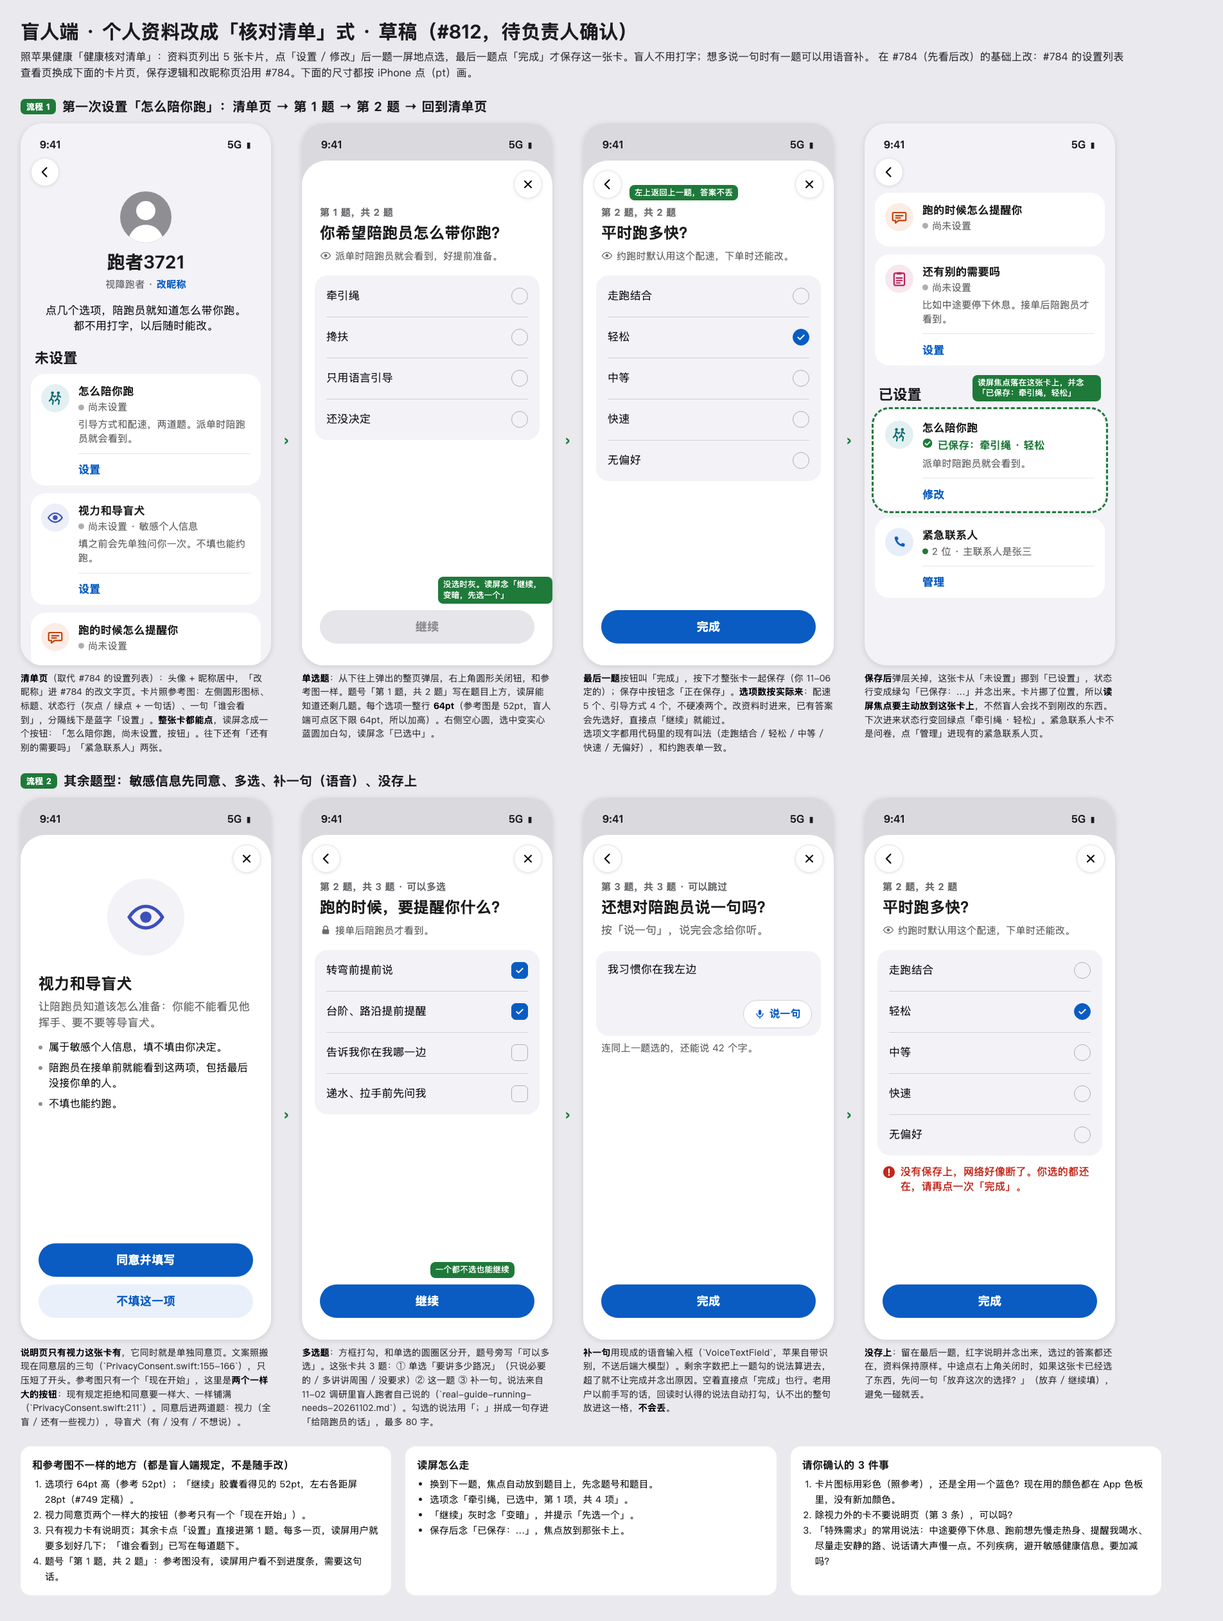
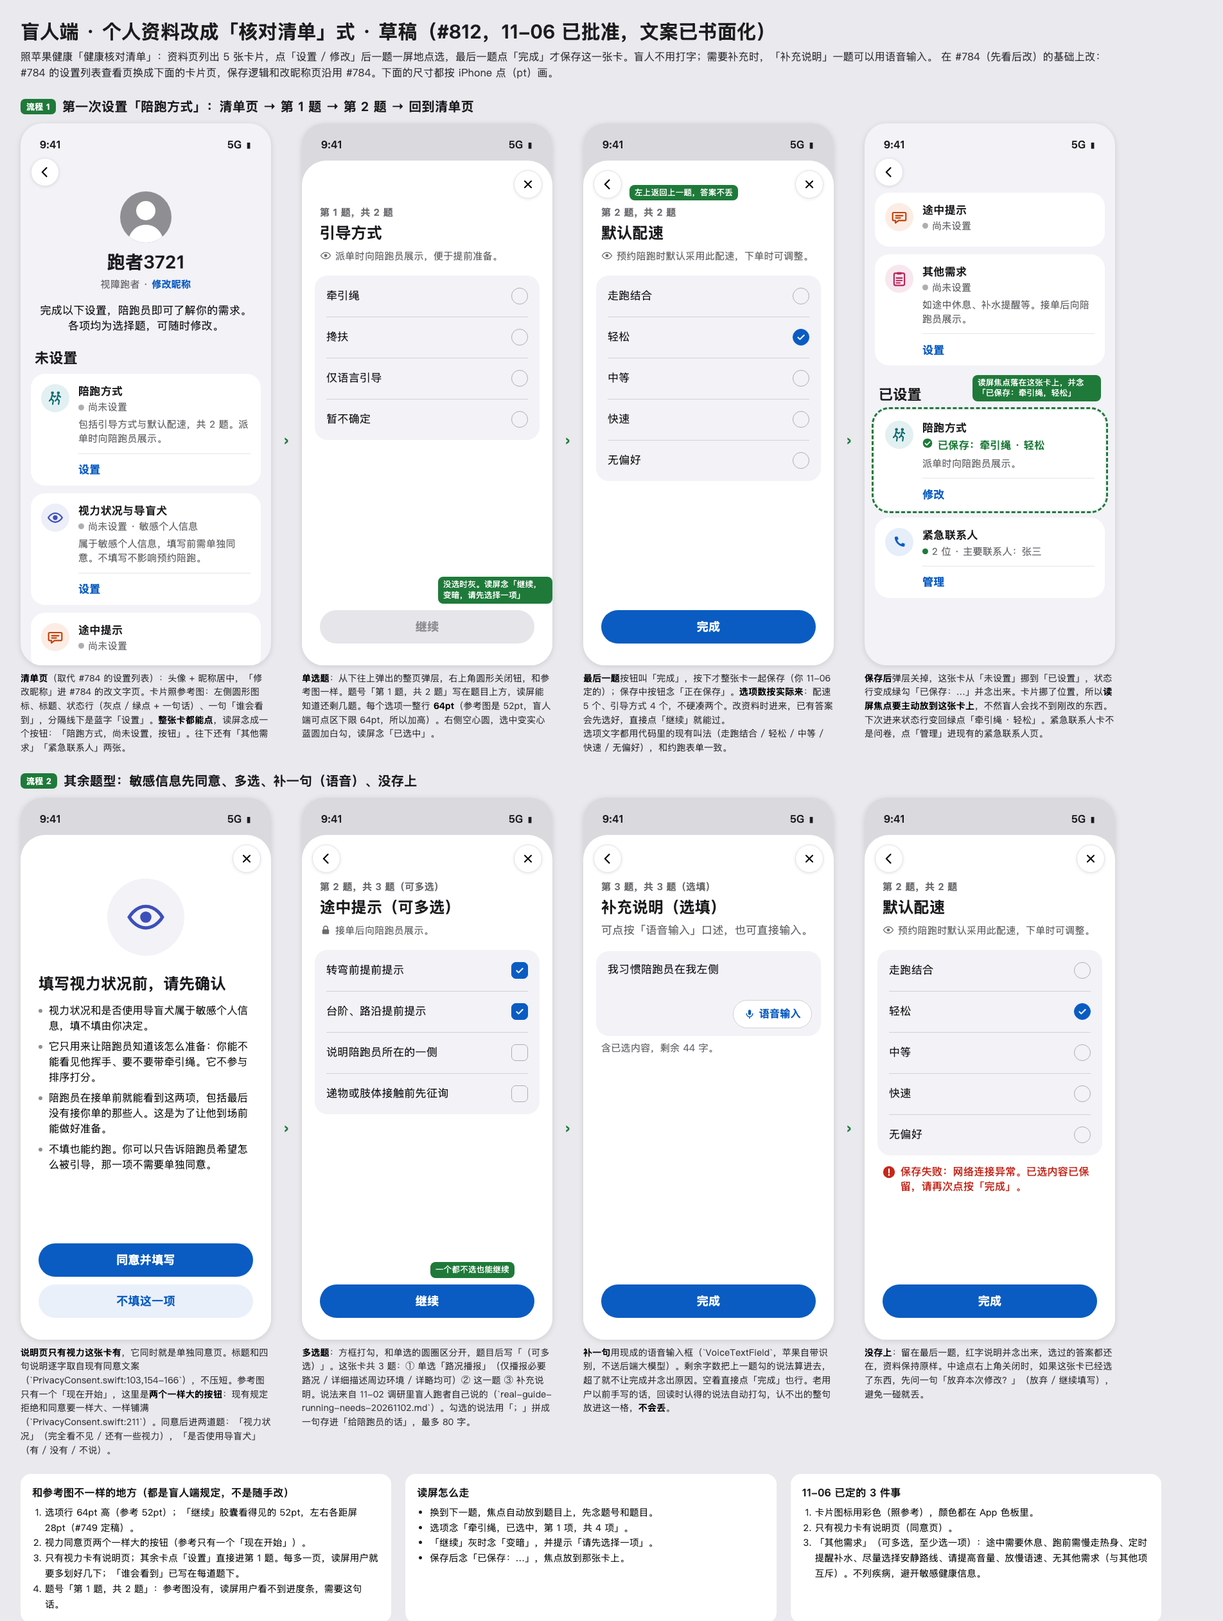
docs: 核对清单草稿文案改成书面说法（#812）

diff --git a/docs/ui/mockups/blind-profile-checklist-20261106/draft.html b/docs/ui/mockups/blind-profile-checklist-20261106/draft.html
@@ -1,6 +1,6 @@
 <!doctype html>
 <html lang="zh-CN"><head><meta charset="utf-8">
-<title>盲人端 · 个人资料改成核对清单式 · 草稿（#812）</title>
+<title>盲人端 · 个人资料改成核对清单式 · 草稿（#812，文案书面化）</title>
 <style>
 :root{--bg:#F2F2F7;--card:#fff;--text:#000;--sec:#6C6C70;--sep:#E5E5EA;--blue:#0A5CC2;--red:#C4281C;
 --orange:#C2410C;--green:#1F7A3A;--teal:#0A6B72;--indigo:#3D4FB8;--pink:#B8235A;--gray:#636366}
@@ -99,11 +99,11 @@ h1{font-size:30px;margin-bottom:6px}
  </defs>
 </svg>
 
-<h1>盲人端 · 个人资料改成「核对清单」式 · 草稿（#812，待负责人确认）</h1>
-<p class="lead">照苹果健康「健康核对清单」：资料页列出 5 张卡片，点「设置 / 修改」后一题一屏地点选，最后一题点「完成」才保存这一张卡。盲人不用打字；想多说一句时有一题可以用语音补。
+<h1>盲人端 · 个人资料改成「核对清单」式 · 草稿（#812，11-06 已批准，文案已书面化）</h1>
+<p class="lead">照苹果健康「健康核对清单」：资料页列出 5 张卡片，点「设置 / 修改」后一题一屏地点选，最后一题点「完成」才保存这一张卡。盲人不用打字；需要补充时，「补充说明」一题可以用语音输入。
 在 #784（先看后改）的基础上改：#784 的设置列表查看页换成下面的卡片页，保存逻辑和改昵称页沿用 #784。下面的尺寸都按 iPhone 点（pt）画。</p>
 
-<div class="rowtitle"><span class="tag">流程 1</span>第一次设置「怎么陪你跑」：清单页 → 第 1 题 → 第 2 题 → 回到清单页</div>
+<div class="rowtitle"><span class="tag">流程 1</span>第一次设置「陪跑方式」：清单页 → 第 1 题 → 第 2 题 → 回到清单页</div>
 <div class="row">
 
  <!-- A1 清单页 -->
@@ -114,34 +114,34 @@ h1{font-size:30px;margin-bottom:6px}
    <div class="head">
     <div class="avatar"><svg width="80" height="80"><use href="#person"/></svg></div>
     <div class="name">跑者3721</div>
-    <div class="role">视障跑者 · <a>改昵称</a></div>
+    <div class="role">视障跑者 · <a>修改昵称</a></div>
    </div>
-   <div class="lede">点几个选项，陪跑员就知道怎么带你跑。<br>都不用打字，以后随时能改。</div>
+   <div class="lede">完成以下设置，陪跑员即可了解你的需求。各项均为选择题，可随时修改。</div>
    <div class="sh">未设置</div>
    <div class="card">
     <div class="ci" style="background:#E3F0F1;color:var(--teal)"><svg width="26" height="26"><use href="#run"/></svg></div>
     <div class="cb">
-     <div class="ct">怎么陪你跑</div>
+     <div class="ct">陪跑方式</div>
      <div class="cs"><i class="dot"></i>尚未设置</div>
-     <div class="cd">引导方式和配速，两道题。派单时陪跑员就会看到。</div>
+     <div class="cd">包括引导方式与默认配速，共 2 题。派单时向陪跑员展示。</div>
      <div class="ca">设置</div>
     </div>
    </div>
    <div class="card">
     <div class="ci" style="background:#ECEEF8;color:var(--indigo)"><svg width="26" height="26"><use href="#eye"/></svg></div>
     <div class="cb">
-     <div class="ct">视力和导盲犬</div>
+     <div class="ct">视力状况与导盲犬</div>
      <div class="cs"><i class="dot"></i>尚未设置 · 敏感个人信息</div>
-     <div class="cd">填之前会先单独问你一次。不填也能约跑。</div>
+     <div class="cd">属于敏感个人信息，填写前需单独同意。不填写不影响预约陪跑。</div>
      <div class="ca">设置</div>
     </div>
    </div>
    <div class="card" style="height:90px;overflow:hidden">
     <div class="ci" style="background:#FBEDE5;color:var(--orange)"><svg width="26" height="26"><use href="#bubble"/></svg></div>
-    <div class="cb"><div class="ct">跑的时候怎么提醒你</div><div class="cs"><i class="dot"></i>尚未设置</div></div>
+    <div class="cb"><div class="ct">途中提示</div><div class="cs"><i class="dot"></i>尚未设置</div></div>
    </div>
   </div>
-  <div class="cap"><b>清单页</b>（取代 #784 的设置列表）：头像 + 昵称居中，「改昵称」进 #784 的改文字页。卡片照参考图：左侧圆形图标、标题、状态行（灰点 / 绿点 + 一句话）、一句「谁会看到」，分隔线下是蓝字「设置」。<b>整张卡都能点</b>，读屏念成一个按钮：「怎么陪你跑，尚未设置，按钮」。往下还有「还有别的需要吗」「紧急联系人」两张。</div>
+  <div class="cap"><b>清单页</b>（取代 #784 的设置列表）：头像 + 昵称居中，「修改昵称」进 #784 的改文字页。卡片照参考图：左侧圆形图标、标题、状态行（灰点 / 绿点 + 一句话）、一句「谁会看到」，分隔线下是蓝字「设置」。<b>整张卡都能点</b>，读屏念成一个按钮：「陪跑方式，尚未设置，按钮」。往下还有「其他需求」「紧急联系人」两张。</div>
  </div>
  <div class="arrow">›</div>
 
@@ -153,17 +153,17 @@ h1{font-size:30px;margin-bottom:6px}
    <div class="sheet">
     <div class="nav"><span></span><div class="circ"><svg width="20" height="20"><use href="#x"/></svg></div></div>
     <div class="prog">第 1 题，共 2 题</div>
-    <div class="qt">你希望陪跑员怎么带你跑？</div>
-    <div class="who"><svg width="18" height="18" style="color:var(--sec);flex:none;margin-top:1px"><use href="#eye-s"/></svg>派单时陪跑员就会看到，好提前准备。</div>
+    <div class="qt">引导方式</div>
+    <div class="who"><svg width="18" height="18" style="color:var(--sec);flex:none;margin-top:1px"><use href="#eye-s"/></svg>派单时向陪跑员展示，便于提前准备。</div>
     <div class="grp">
      <div class="op"><span>牵引绳</span><i class="rd"></i></div>
      <div class="op"><span>搀扶</span><i class="rd"></i></div>
-     <div class="op"><span>只用语言引导</span><i class="rd"></i></div>
-     <div class="op"><span>还没决定</span><i class="rd"></i></div>
+     <div class="op"><span>仅语言引导</span><i class="rd"></i></div>
+     <div class="op"><span>暂不确定</span><i class="rd"></i></div>
     </div>
     <div class="foot"><div class="cap-btn dis">继续</div></div>
    </div>
-   <div class="ann" style="left:212px;bottom:96px">没选时灰。读屏念「继续，变暗，先选一个」</div>
+   <div class="ann" style="left:212px;bottom:96px">没选时灰。读屏念「继续，变暗，请先选择一项」</div>
   </div>
   <div class="cap"><b>单选题</b>：从下往上弹出的整页弹层，右上角圆形关闭钮，和参考图一样。题号「第 1 题，共 2 题」写在题目上方，读屏能知道还剩几题。每个选项一整行 <b>64pt</b>（参考图是 52pt，盲人端可点区下限 64pt，所以加高）。右侧空心圆，选中变实心蓝圆加白勾，读屏念「已选中」。</div>
  </div>
@@ -177,8 +177,8 @@ h1{font-size:30px;margin-bottom:6px}
    <div class="sheet">
     <div class="nav"><div class="circ"><svg width="20" height="20"><use href="#chev-l"/></svg></div><div class="circ"><svg width="20" height="20"><use href="#x"/></svg></div></div>
     <div class="prog">第 2 题，共 2 题</div>
-    <div class="qt">平时跑多快？</div>
-    <div class="who"><svg width="18" height="18" style="color:var(--sec);flex:none;margin-top:1px"><use href="#eye-s"/></svg>约跑时默认用这个配速，下单时还能改。</div>
+    <div class="qt">默认配速</div>
+    <div class="who"><svg width="18" height="18" style="color:var(--sec);flex:none;margin-top:1px"><use href="#eye-s"/></svg>预约陪跑时默认采用此配速，下单时可调整。</div>
     <div class="grp">
      <div class="op"><span>走跑结合</span><i class="rd"></i></div>
      <div class="op sel"><span>轻松</span><i class="rd"><svg width="16" height="16"><use href="#tick"/></svg></i></div>
@@ -201,14 +201,14 @@ h1{font-size:30px;margin-bottom:6px}
    <div class="nav"><div class="circ"><svg width="20" height="20"><use href="#chev-l"/></svg></div></div>
    <div class="card" style="height:84px;overflow:hidden;margin-top:6px">
     <div class="ci" style="background:#FBEDE5;color:var(--orange)"><svg width="26" height="26"><use href="#bubble"/></svg></div>
-    <div class="cb"><div class="ct">跑的时候怎么提醒你</div><div class="cs"><i class="dot"></i>尚未设置</div></div>
+    <div class="cb"><div class="ct">途中提示</div><div class="cs"><i class="dot"></i>尚未设置</div></div>
    </div>
    <div class="card">
     <div class="ci" style="background:#F8E7EE;color:var(--pink)"><svg width="26" height="26"><use href="#clip"/></svg></div>
     <div class="cb">
-     <div class="ct">还有别的需要吗</div>
+     <div class="ct">其他需求</div>
      <div class="cs"><i class="dot"></i>尚未设置</div>
-     <div class="cd">比如中途要停下休息。接单后陪跑员才看到。</div>
+     <div class="cd">如途中休息、补水提醒等。接单后向陪跑员展示。</div>
      <div class="ca">设置</div>
     </div>
    </div>
@@ -216,9 +216,9 @@ h1{font-size:30px;margin-bottom:6px}
    <div class="card" style="outline:3px dashed #1F7A3A;outline-offset:2px">
     <div class="ci" style="background:#E3F0F1;color:var(--teal)"><svg width="26" height="26"><use href="#run"/></svg></div>
     <div class="cb">
-     <div class="ct">怎么陪你跑</div>
+     <div class="ct">陪跑方式</div>
      <div class="cs ok"><svg width="16" height="16"><use href="#tick-g"/></svg>已保存：牵引绳 · 轻松</div>
-     <div class="cd">派单时陪跑员就会看到。</div>
+     <div class="cd">派单时向陪跑员展示。</div>
      <div class="ca">修改</div>
     </div>
    </div>
@@ -226,7 +226,7 @@ h1{font-size:30px;margin-bottom:6px}
     <div class="ci" style="background:#E6EEFA;color:var(--blue)"><svg width="24" height="24"><use href="#phone"/></svg></div>
     <div class="cb">
      <div class="ct">紧急联系人</div>
-     <div class="cs"><i class="dot on"></i>2 位 · 主联系人是张三</div>
+     <div class="cs"><i class="dot on"></i>2 位 · 主要联系人：张三</div>
      <div class="ca">管理</div>
     </div>
    </div>
@@ -247,17 +247,17 @@ h1{font-size:30px;margin-bottom:6px}
    <div class="sheet">
     <div class="nav"><span></span><div class="circ"><svg width="20" height="20"><use href="#x"/></svg></div></div>
     <div class="big-ic" style="color:var(--indigo);margin-top:4px"><svg width="62" height="62"><use href="#eye"/></svg></div>
-    <div class="qt">视力和导盲犬</div>
-    <div class="qd">让陪跑员知道该怎么准备：你能不能看见他挥手、要不要等导盲犬。</div>
+    <div class="qt">填写视力状况前，请先确认</div>
     <div class="ul">
-     <p><i></i>属于敏感个人信息，填不填由你决定。</p>
-     <p><i></i>陪跑员在接单前就能看到这两项，包括最后没接你单的人。</p>
-     <p><i></i>不填也能约跑。</p>
+     <p><i></i>视力状况和是否使用导盲犬属于敏感个人信息，填不填由你决定。</p>
+     <p><i></i>它只用来让陪跑员知道该怎么准备：你能不能看见他挥手、要不要带牵引绳。它不参与排序打分。</p>
+     <p><i></i>陪跑员在接单前就能看到这两项，包括最后没有接你单的那些人。这是为了让他到场前能做好准备。</p>
+     <p><i></i>不填也能约跑。你可以只告诉陪跑员希望怎么被引导，那一项不需要单独同意。</p>
     </div>
     <div class="foot"><div class="cap-btn">同意并填写</div><div class="gap12"></div><div class="cap-btn sec">不填这一项</div></div>
    </div>
   </div>
-  <div class="cap"><b>说明页只有视力这张卡有</b>，它同时就是单独同意页。文案照搬现在同意层的三句（`PrivacyConsent.swift:155-166`），只压短了开头。参考图只有一个「现在开始」，这里是<b>两个一样大的按钮</b>：现有规定拒绝和同意要一样大、一样铺满（`PrivacyConsent.swift:211`）。同意后进两道题：视力（全盲 / 还有一些视力），导盲犬（有 / 没有 / 不想说）。</div>
+  <div class="cap"><b>说明页只有视力这张卡有</b>，它同时就是单独同意页。标题和四句说明逐字取自现有同意文案（`PrivacyConsent.swift:103,154-166`），不压短。参考图只有一个「现在开始」，这里是<b>两个一样大的按钮</b>：现有规定拒绝和同意要一样大、一样铺满（`PrivacyConsent.swift:211`）。同意后进两道题：「视力状况」（完全看不见 / 还有一些视力），「是否使用导盲犬」（有 / 没有 / 不说）。</div>
  </div>
  <div class="arrow">›</div>
 
@@ -268,20 +268,20 @@ h1{font-size:30px;margin-bottom:6px}
    <div class="status" style="position:relative"><span>9:41</span><span>5G ▮</span></div>
    <div class="sheet">
     <div class="nav"><div class="circ"><svg width="20" height="20"><use href="#chev-l"/></svg></div><div class="circ"><svg width="20" height="20"><use href="#x"/></svg></div></div>
-    <div class="prog">第 2 题，共 3 题 · 可以多选</div>
-    <div class="qt">跑的时候，要提醒你什么？</div>
-    <div class="who"><svg width="18" height="18" style="color:var(--sec);flex:none;margin-top:1px"><use href="#lock"/></svg>接单后陪跑员才看到。</div>
+    <div class="prog">第 2 题，共 3 题（可多选）</div>
+    <div class="qt">途中提示（可多选）</div>
+    <div class="who"><svg width="18" height="18" style="color:var(--sec);flex:none;margin-top:1px"><use href="#lock"/></svg>接单后向陪跑员展示。</div>
     <div class="grp">
-     <div class="op sel"><span>转弯前提前说</span><i class="ck"><svg width="16" height="16"><use href="#tick"/></svg></i></div>
-     <div class="op sel"><span>台阶、路沿提前提醒</span><i class="ck"><svg width="16" height="16"><use href="#tick"/></svg></i></div>
-     <div class="op"><span>告诉我你在我哪一边</span><i class="ck"></i></div>
-     <div class="op"><span>递水、拉手前先问我</span><i class="ck"></i></div>
+     <div class="op sel"><span>转弯前提前提示</span><i class="ck"><svg width="16" height="16"><use href="#tick"/></svg></i></div>
+     <div class="op sel"><span>台阶、路沿提前提示</span><i class="ck"><svg width="16" height="16"><use href="#tick"/></svg></i></div>
+     <div class="op"><span>说明陪跑员所在的一侧</span><i class="ck"></i></div>
+     <div class="op"><span>递物或肢体接触前先征询</span><i class="ck"></i></div>
     </div>
     <div class="foot"><div class="cap-btn">继续</div></div>
    </div>
    <div class="ann" style="left:200px;bottom:96px">一个都不选也能继续</div>
   </div>
-  <div class="cap"><b>多选题</b>：方框打勾，和单选的圆圈区分开，题号旁写「可以多选」。这张卡共 3 题：① 单选「要讲多少路况」（只说必要的 / 多讲讲周围 / 没要求）② 这一题 ③ 补一句。说法来自 11-02 调研里盲人跑者自己说的（`real-guide-running-needs-20261102.md`）。勾选的说法用「；」拼成一句存进「给陪跑员的话」，最多 80 字。</div>
+  <div class="cap"><b>多选题</b>：方框打勾，和单选的圆圈区分开，题目后写「（可多选）」。这张卡共 3 题：① 单选「路况播报」（仅播报必要路况 / 详细描述周边环境 / 详略均可）② 这一题 ③ 补充说明。说法来自 11-02 调研里盲人跑者自己说的（`real-guide-running-needs-20261102.md`）。勾选的说法用「；」拼成一句存进「给陪跑员的话」，最多 80 字。</div>
  </div>
  <div class="arrow">›</div>
 
@@ -292,13 +292,13 @@ h1{font-size:30px;margin-bottom:6px}
    <div class="status" style="position:relative"><span>9:41</span><span>5G ▮</span></div>
    <div class="sheet">
     <div class="nav"><div class="circ"><svg width="20" height="20"><use href="#chev-l"/></svg></div><div class="circ"><svg width="20" height="20"><use href="#x"/></svg></div></div>
-    <div class="prog">第 3 题，共 3 题 · 可以跳过</div>
-    <div class="qt">还想对陪跑员说一句吗？</div>
-    <div class="qd">按「说一句」，说完会念给你听。</div>
-    <div class="tbox">我习惯你在我左边
-     <div class="mic"><svg width="18" height="18"><use href="#mic"/></svg>说一句</div>
+    <div class="prog">第 3 题，共 3 题（选填）</div>
+    <div class="qt">补充说明（选填）</div>
+    <div class="qd">可点按「语音输入」口述，也可直接输入。</div>
+    <div class="tbox">我习惯陪跑员在我左侧
+     <div class="mic"><svg width="18" height="18"><use href="#mic"/></svg>语音输入</div>
     </div>
-    <div class="cnt">连同上一题选的，还能说 42 个字。</div>
+    <div class="cnt">含已选内容，剩余 44 字。</div>
     <div class="foot"><div class="cap-btn">完成</div></div>
    </div>
   </div>
@@ -314,8 +314,8 @@ h1{font-size:30px;margin-bottom:6px}
    <div class="sheet">
     <div class="nav"><div class="circ"><svg width="20" height="20"><use href="#chev-l"/></svg></div><div class="circ"><svg width="20" height="20"><use href="#x"/></svg></div></div>
     <div class="prog">第 2 题，共 2 题</div>
-    <div class="qt">平时跑多快？</div>
-    <div class="who"><svg width="18" height="18" style="color:var(--sec);flex:none;margin-top:1px"><use href="#eye-s"/></svg>约跑时默认用这个配速，下单时还能改。</div>
+    <div class="qt">默认配速</div>
+    <div class="who"><svg width="18" height="18" style="color:var(--sec);flex:none;margin-top:1px"><use href="#eye-s"/></svg>预约陪跑时默认采用此配速，下单时可调整。</div>
     <div class="grp">
      <div class="op"><span>走跑结合</span><i class="rd"></i></div>
      <div class="op sel"><span>轻松</span><i class="rd"><svg width="16" height="16"><use href="#tick"/></svg></i></div>
@@ -323,11 +323,11 @@ h1{font-size:30px;margin-bottom:6px}
      <div class="op"><span>快速</span><i class="rd"></i></div>
      <div class="op"><span>无偏好</span><i class="rd"></i></div>
     </div>
-    <div class="err"><svg width="20" height="20" style="flex:none;margin-top:2px"><use href="#warn"/></svg>没有保存上，网络好像断了。你选的都还在，请再点一次「完成」。</div>
+    <div class="err"><svg width="20" height="20" style="flex:none;margin-top:2px"><use href="#warn"/></svg>保存失败：网络连接异常。已选内容已保留，请再次点按「完成」。</div>
     <div class="foot"><div class="cap-btn">完成</div></div>
    </div>
   </div>
-  <div class="cap"><b>没存上</b>：留在最后一题，红字说明并念出来，选过的答案都还在，资料保持原样。中途点右上角关闭时，如果这张卡已经选了东西，先问一句「放弃这次的选择？」（放弃 / 继续填），避免一碰就丢。</div>
+  <div class="cap"><b>没存上</b>：留在最后一题，红字说明并念出来，选过的答案都还在，资料保持原样。中途点右上角关闭时，如果这张卡已经选了东西，先问一句「放弃本次修改？」（放弃 / 继续填写），避免一碰就丢。</div>
  </div>
 </div>
 
@@ -343,14 +343,14 @@ h1{font-size:30px;margin-bottom:6px}
   <ul>
    <li>换到下一题，焦点自动放到题目上，先念题号和题目。</li>
    <li>选项念「牵引绳，已选中，第 1 项，共 4 项」。</li>
-   <li>「继续」灰时念「变暗」，并提示「先选一个」。</li>
+   <li>「继续」灰时念「变暗」，并提示「请先选择一项」。</li>
    <li>保存后念「已保存：…」，焦点放到那张卡上。</li>
   </ul></div>
- <div class="note"><h3>请你确认的 3 件事</h3>
+ <div class="note"><h3>11-06 已定的 3 件事</h3>
   <ol>
-   <li>卡片图标用彩色（照参考），还是全用一个蓝色？现在用的颜色都在 App 色板里，没有新加颜色。</li>
-   <li>除视力外的卡不要说明页（第 3 条），可以吗？</li>
-   <li>「特殊需求」的常用说法：中途要停下休息、跑前想先慢走热身、提醒我喝水、尽量走安静的路、说话请大声慢一点。不列疾病，避开敏感健康信息。要加减吗？</li>
+   <li>卡片图标用彩色（照参考），颜色都在 App 色板里。</li>
+   <li>只有视力卡有说明页（同意页）。</li>
+   <li>「其他需求」（可多选，至少选一项）：途中需要休息、跑前需慢走热身、定时提醒补水、尽量选择安静路线、请提高音量、放慢语速、无其他需求（与其他项互斥）。不列疾病，避开敏感健康信息。</li>
   </ol></div>
 </div>
 </body></html>
